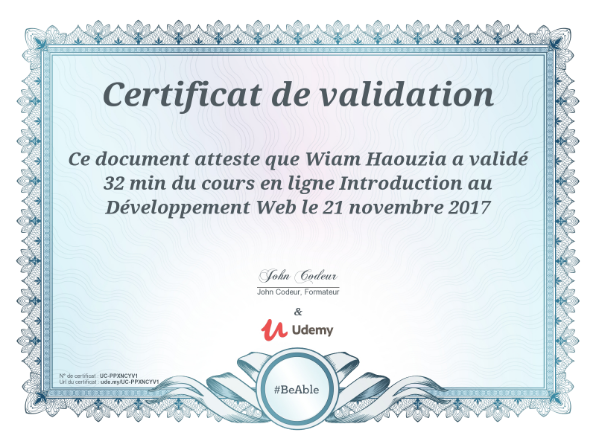
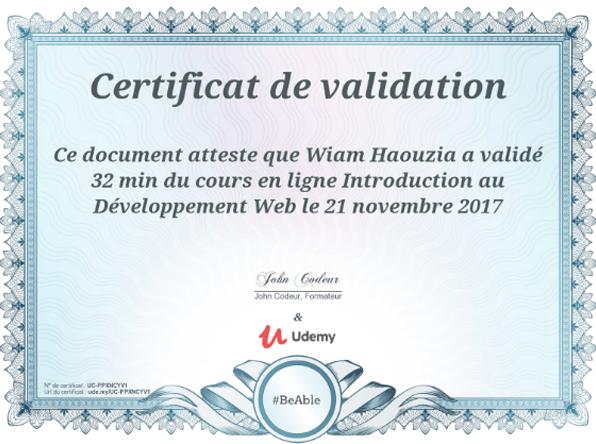
certifs

diff --git a/index.html b/index.html
@@ -274,7 +274,7 @@
 
                     <div class="col-md-3 px-md-4 px-3 mb-5 lax" data-lax-preset="zoomInOut fadeInOut">
                         <a href="assets/img/certifications/Udemy-Introduction-Web-Dev@2x.png"  data-popup="gallery-item">
-                            <img class="img-fluid mx-md-2" src="./assets/img/certifications/Udemy-Introduction-Web-Dev.png" alt="Udemy-Introduction-Web-Dev">
+                            <img class="img-fluid mx-md-2" src="./assets/img/certifications/Udemy-Introduction-Web-Dev@2x.png" alt="Udemy-Introduction-Web-Dev">
                         </a>
                     </div>
                 </div>
